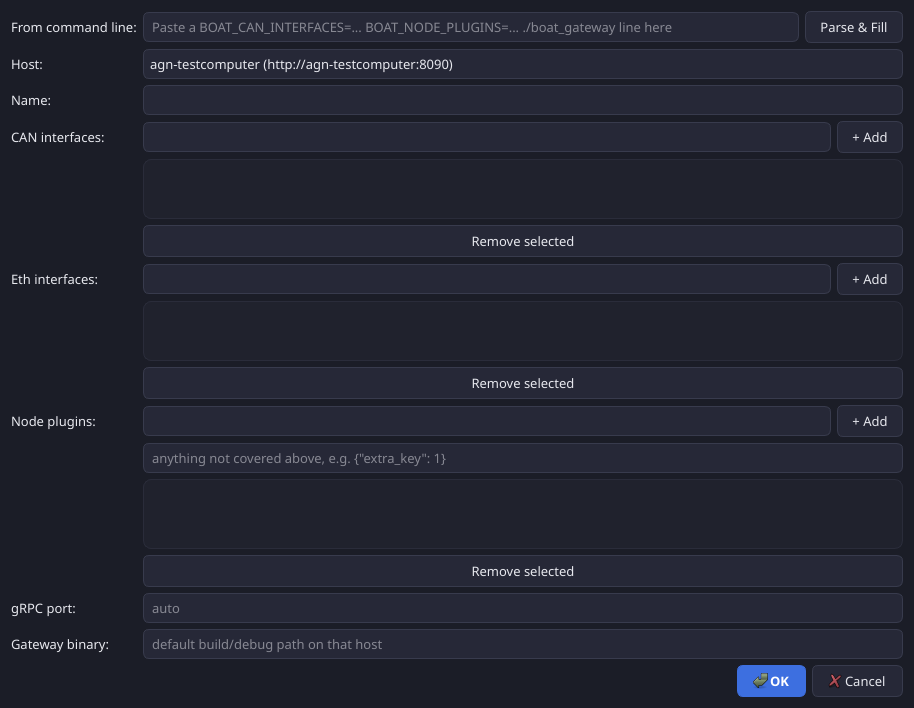
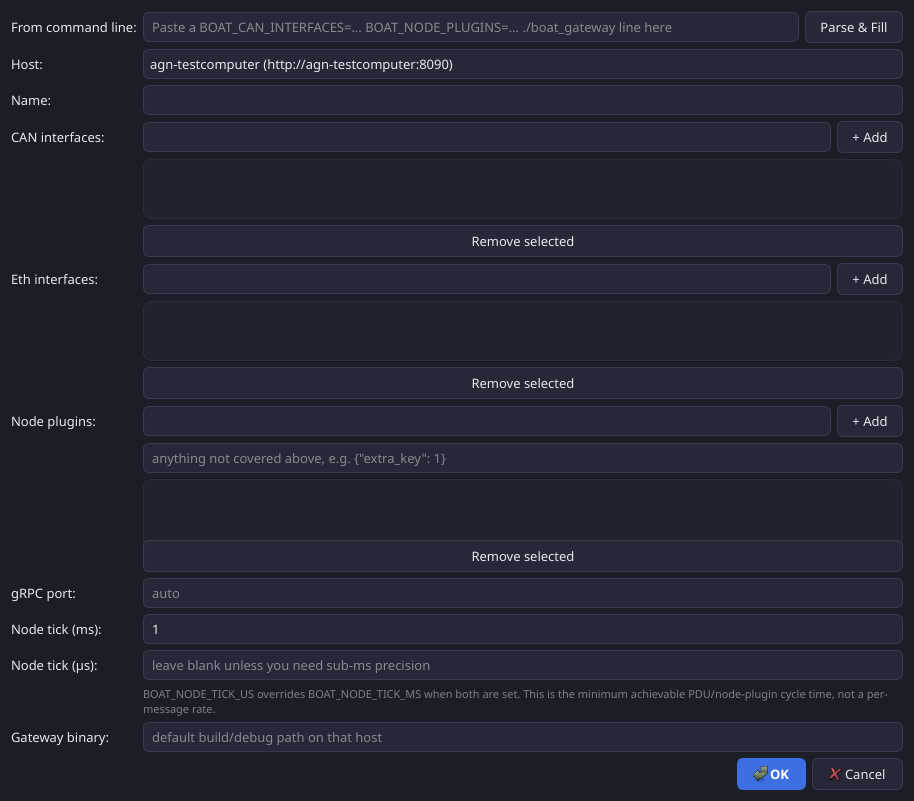
feat: Node tick (ms)/(us) fields in New/Edit Instance dialog
Adds dedicated Node tick (ms) / Node tick (us) fields (BOAT_NODE_TICK_MS/
_US) to NewInstanceDialog, following up on an audit of every env var
boat_gateway actually reads (a source grep of every getenv() call in
main.cpp + replay_engine.cpp -- 9 total: the 4 already known, plus
BOAT_NODE_PLUGINS, plus three undocumented TLS vars the user said aren't
needed for now).

Corrects a naming mix-up in the request: the real variable is
BOAT_NODE_TICK_US (microseconds), not _NS (nanoseconds) -- confirmed
against the actual getenv() call and implemented with the real name,
since a _NS field would silently do nothing.

Node tick (ms) starts pre-filled with "1" (the gateway's own compiled-in
default) as literal text, not a placeholder. Node tick (us) starts blank
with a "leave blank unless you need sub-ms precision" placeholder. A
note under both states BOAT_NODE_TICK_US overrides BOAT_NODE_TICK_MS
when both are set. Edit mode only overrides the "1" default when the
instance has its own explicit tick_ms saved. _parse_and_fill() now also
populates both fields from a pasted command line -- previously a parsed
BOAT_NODE_TICK_MS value was silently dropped, since no field existed to
hold it. create_instance()/update_instance() (agent_client.py) and
_format_command_line()/_parse_command_line() already fully supported
tick_ms/tick_us; the only gap was the dialog itself.

Verified on real hardware (agn-testcomputer), on an isolated test agent
[…]

diff --git a/admin_gui/main.py b/admin_gui/main.py
@@ -1104,6 +1104,22 @@ class NewInstanceDialog(QDialog):
         self.port_edit.setPlaceholderText("auto")
         layout.addRow("gRPC port:", self.port_edit)
 
+        self.tick_ms_edit = QLineEdit("1")
+        layout.addRow("Node tick (ms):", self.tick_ms_edit)
+
+        self.tick_us_edit = QLineEdit()
+        self.tick_us_edit.setPlaceholderText("leave blank unless you need sub-ms precision")
+        layout.addRow("Node tick (µs):", self.tick_us_edit)
+
+        tick_note = QLabel(
+            "BOAT_NODE_TICK_US overrides BOAT_NODE_TICK_MS when both are set. "
+            "This is the minimum achievable PDU/node-plugin cycle time, not a "
+            "per-message rate."
+        )
+        tick_note.setWordWrap(True)
+        tick_note.setStyleSheet("color: gray; font-size: 11px;")
+        layout.addRow("", tick_note)
+
         self.gw_bin_edit = QLineEdit()
         self.gw_bin_edit.setPlaceholderText("default build/debug path on that host")
         layout.addRow("Gateway binary:", self.gw_bin_edit)
@@ -1131,6 +1147,13 @@ class NewInstanceDialog(QDialog):
             # own current port from its collision check.
             if existing.get("grpc_port"):
                 self.port_edit.setText(str(existing["grpc_port"]))
+            # tick_ms_edit already defaults to "1" (the gateway's own
+            # compiled-in default) -- only override it when this instance
+            # has its own explicit value saved.
+            if existing.get("tick_ms"):
+                self.tick_ms_edit.setText(str(existing["tick_ms"]))
+            if existing.get("tick_us"):
+                self.tick_us_edit.setText(str(existing["tick_us"]))
             if existing.get("gateway_bin"):
                 self.gw_bin_edit.setText(existing["gateway_bin"])
 
@@ -1158,6 +1181,8 @@ class NewInstanceDialog(QDialog):
         for p in parsed["node_plugins"]:
             self.plugin_picker.add_value(p["path"], p["config"])
         self.port_edit.setText(str(parsed["grpc_port"]) if parsed["grpc_port"] is not None else "")
+        self.tick_ms_edit.setText(str(parsed["tick_ms"]) if parsed["tick_ms"] is not None else "")
+        self.tick_us_edit.setText(str(parsed["tick_us"]) if parsed["tick_us"] is not None else "")
         self.gw_bin_edit.setText(parsed["gateway_bin"] or "")
         self.paste_edit.clear()
 
@@ -1180,12 +1205,16 @@ class NewInstanceDialog(QDialog):
 
     def result_payload(self) -> dict:
         port_text = self.port_edit.text().strip()
+        tick_ms_text = self.tick_ms_edit.text().strip()
+        tick_us_text = self.tick_us_edit.text().strip()
         return {
             "name": self.name_edit.text().strip(),
             "can_ifaces": self.can_picker.values(),
             "eth_ifaces": self.eth_picker.values(),
             "node_plugins": self.plugin_picker.values(),
             "grpc_port": int(port_text) if port_text else None,
+            "tick_ms": int(tick_ms_text) if tick_ms_text else None,
+            "tick_us": int(tick_us_text) if tick_us_text else None,
             "gateway_bin": self.gw_bin_edit.text().strip() or None,
         }
 

diff --git a/backlog/launcher_agent_backlog.md b/backlog/launcher_agent_backlog.md
@@ -827,6 +827,79 @@ the user's own live processes (two gateways, `launcher_agent`, four
 `ui/*.py` services) confirmed still running under the same PIDs
 afterward.
 
+## Done (2026-08-20, continued) — audited the gateway's full env var surface, added Node tick fields
+
+User: "figure out how many env variables the gateway can use. I know
+there are the can and eth interfaces, the ticktime and the port. have i
+forgott anything?" A full source grep (not a doc reread) of everything
+`boat_gateway` actually calls `getenv()` on -- `main.cpp` +
+`replay_engine.cpp` (same binary; loaded plugins take config only via
+their own `?{json}` query string, confirmed zero `getenv()` calls
+anywhere under `src/plugins/`) -- found 9 total: the 4 the user named
+(`BOAT_CAN_INTERFACES`, `BOAT_ETH_INTERFACES`, `BOAT_GRPC_PORT`,
+`BOAT_NODE_TICK_MS`/`_US`), `BOAT_NODE_PLUGINS`, and three genuinely
+undocumented ones -- `BOAT_TLS_CERT`/`BOAT_TLS_KEY`/`BOAT_TLS_CLIENT_CA`
+(opt-in server-side TLS, confirmed absent from `AGENTS.md`, `README.md`,
+and admin_gui, present only in the source). Also flagged `BOAT_HIL_ENABLED`/
+`BOAT_VCAN_IFACE` as a likely point of confusion -- real `BOAT_*` env
+vars, but read by the ctest HIL test binaries, not by `boat_gateway`
+itself.
+
+User: TLS isn't needed for now (Google-requires-it-for-something-else,
+not for regular connections) -- skip it. Follow-up: "please add a field
+for the BOAT_NODE_TICK_NS and BOAT_NODE_TICK_MS to the New Instance /
+Edit window with default BOAT_NODE_TICK_MS = 1 with a comment that
+BOAT_NODE_TICK_NS will override BOAT_NODE_TICK_MS when both are set."
+Corrected in passing: the real env var is `BOAT_NODE_TICK_US`
+(microseconds), not `_NS` (nanoseconds) -- confirmed against the exact
+`getenv()` call in `main.cpp` found during the audit above; implemented
+using the real name, since a `_NS` field would silently do nothing (the
+gateway never reads it).
+
+Found while implementing: `create_instance()`/`update_instance()`
+(`agent_client.py`) already accepted `tick_ms`/`tick_us`, and
+`_format_command_line()`/`_parse_command_line()` (the Equivalent Command
+Line panel and its own paste-and-fill) already handled both -- the *only*
+gap was `NewInstanceDialog` itself never having input fields for them,
+so `result_payload()` never included them and a pasted
+`BOAT_NODE_TICK_MS=...` line's parsed value was silently dropped instead
+of landing anywhere.
+
+**Fix**: two new fields, **Node tick (ms)** (pre-filled `"1"`, the
+gateway's own compiled-in default -- literal text, not a placeholder, so
+it's visibly what's about to be sent, not just implied) and **Node tick
+(µs)** (blank, placeholder "leave blank unless you need sub-ms
+precision"), plus a small note underneath: "BOAT_NODE_TICK_US overrides
+BOAT_NODE_TICK_MS when both are set. This is the minimum achievable
+PDU/node-plugin cycle time, not a per-message rate." Edit mode overrides
+the `"1"` default only when the instance has its own explicit
+`tick_ms` saved (mirroring the existing gRPC-port pre-fill pattern);
+`_parse_and_fill()` now also populates both fields from a pasted line
+(previously silently ignored parsed tick values); `result_payload()`
+includes both, parsed as `int` when non-blank else `None`.
+
+**Verified on real hardware** (`agn-testcomputer`), on an isolated test
+agent (a fresh port -- the box had `launcher_agent` and four other
+`ui/*.py` services running at the time, confirmed via `ps`/`ss` and left
+untouched, no gateway processes were running so nothing else needed
+avoiding): a throwaway Qt driver script (Xvfb + `xcb`, not committed)
+confirmed a fresh dialog's `tick_ms`/`tick_us` fields read `"1"`/`""`
+and `result_payload()` returned `{"tick_ms": 1, "tick_us": None}`;
+created a real instance through the isolated agent with that payload and
+confirmed the stored instance came back with `tick_ms: 1, tick_us:
+None`; reopened it in Edit mode and confirmed the dialog correctly
+pre-filled `"1"`/`""` from the *saved* instance (not just the
+constructor default); changed `tick_us` to `500` and confirmed the real
+`update_instance()` call persisted `tick_us: 500`; pasted a line
+containing `BOAT_NODE_TICK_MS=5` into a fresh dialog and confirmed
+**Parse && Fill** populated `tick_ms_edit` with `"5"` (previously this
+field didn't exist at all, so this exact input silently did nothing). A
+screenshot confirmed the fields and note render correctly, and was also
+used to regenerate the stale `admin_gui/docs/new_instance_dialog.png`.
+Test instance and all test artifacts cleaned up afterward; every one of
+the user's own live processes confirmed running under the same PIDs
+afterward.
+
 ## Next steps (not started)
 
 - Decide instance persistence approach once the "agent restart loses

diff --git a/test/AdminGui.md b/test/AdminGui.md
@@ -1209,3 +1209,71 @@ correctly across every interface type present. All test artifacts
 cleaned up afterward; every one of the user's own live processes
 confirmed running under the same PIDs afterward. Full account:
 `backlog/launcher_agent_backlog.md`'s "CAN Config column" entry.
+
+---
+
+### TC_AdminGui_023_node_tick_fields
+
+**TestSets:** [AdminGui]
+
+**Preconditions:**
+- A reachable agent
+
+**TestSteps:**
+1. Open **New Instance…**; inspect the Node tick (ms)/(µs) fields and
+   the note beneath them
+2. Fill in a CAN interface and create the instance
+3. **Edit…** the created instance; inspect the tick fields
+4. Change **Node tick (µs)** and save
+5. Paste a command line containing `BOAT_NODE_TICK_MS=<n>` (no `_US`)
+   into **From command line** and click **Parse && Fill**
+
+**Expected:**
+- Step 1: **Node tick (ms)** starts pre-filled with `1`; **Node tick
+  (µs)** is blank with a "leave blank unless you need sub-ms precision"
+  placeholder; the note states `BOAT_NODE_TICK_US` overrides
+  `BOAT_NODE_TICK_MS` when both are set
+- Step 2: the created instance's stored `tick_ms` is `1`, `tick_us` is
+  `None`
+- Step 3: the dialog re-opens with `1`/blank pre-filled from the saved
+  instance
+- Step 4: the update persists the new `tick_us` value
+- Step 5: **Node tick (ms)** updates to the pasted value, **Node tick
+  (µs)** stays blank
+
+**Verdict:** OK
+
+**Result:**
+Followed a request to audit the gateway's full environment-variable
+surface first (a source grep of every `getenv()` call in `main.cpp` +
+`replay_engine.cpp`, confirming 9 total including three genuinely
+undocumented TLS vars the user then said weren't needed for now) --
+this test case covers the follow-up: adding dedicated Node tick fields
+to the New/Edit Instance dialog, previously only reachable via a paste
+that silently dropped the value (no field existed to hold it, and
+`result_payload()` never included it, even though the agent-side
+`create_instance()`/`update_instance()` already accepted it). Also
+corrected a naming mix-up in the request itself: the real variable is
+`BOAT_NODE_TICK_US` (microseconds), not `_NS` (nanoseconds) -- confirmed
+against the actual `getenv()` call, and implemented with the real name.
+
+Verified on real hardware (`agn-testcomputer`), on an isolated test
+agent (the box had `launcher_agent` and four other `ui/*.py` services
+running at the time, confirmed via `ps`/`ss` and left untouched; no
+gateway processes were running, so nothing else needed avoiding): a
+throwaway Qt driver script (Xvfb + `xcb`, not committed) confirmed a
+fresh dialog's fields read `"1"`/`""` and `result_payload()` returned
+`{"tick_ms": 1, "tick_us": None}`; created a real instance through the
+isolated agent and confirmed the stored `tick_ms`/`tick_us` matched;
+reopened it in Edit mode and confirmed `"1"`/`""` pre-filled from the
+*saved* instance, not just the constructor default; changed `tick_us`
+to `500` and confirmed the real update persisted it; pasted a line with
+`BOAT_NODE_TICK_MS=5` and confirmed **Parse && Fill** populated the
+`ms` field with `"5"` (previously silently dropped, since the field
+didn't exist). A screenshot confirmed the fields and note render
+correctly, and was used to regenerate the stale
+`admin_gui/docs/new_instance_dialog.png`. Test instance and all test
+artifacts cleaned up afterward; every one of the user's own live
+processes confirmed running under the same PIDs afterward. Full
+account: `backlog/launcher_agent_backlog.md`'s "audited the gateway's
+full env var surface, added Node tick fields" entry.

diff --git a/AGENTS.md b/AGENTS.md
@@ -359,10 +359,18 @@ the `external:` discovery above), polled every 2s on a background
 `QThread` → create/**edit**/start/stop/delete, plus a log viewer and an
 **equivalent command line** panel (the `BOAT_*=... ./boat_gateway` form
 of whatever instance is selected, with a Copy button -- for pasting into
-a script) for the selected instance.
+a script) for the selected instance. The New/Edit Instance dialog has
+dedicated **Node tick (ms)**/**Node tick (µs)** fields (`BOAT_NODE_TICK_MS`/
+`_US` -- the gateway's own compiled-in default is 1ms, which **Node tick
+(ms)** starts pre-filled with; a note under both fields states `_US`
+overrides `_MS` when both are set, matching `main.cpp`'s own precedence)
+-- previously only reachable via **From command line** paste, with no
+dedicated fields and no round-trip through `result_payload()` at all, so
+a pasted tick value was silently dropped even though the agent-side
+`create_instance`/`update_instance` calls already accepted it.
 The New/Edit Instance dialog also runs the *reverse* direction: paste a
 command line into **From command line** and **Parse && Fill** populates
-every field from it. **Save Session…**/**Load Session…** write/read a
+every field from it (now including these two). **Save Session…**/**Load Session…** write/read a
 docker-compose-style YAML file (`session.py`, using `PyYAML`) capturing
 every host plus its agent-managed instance definitions (never
 `managed: false` rows -- nothing owned to save for those) *and* every

diff --git a/admin_gui/README.md b/admin_gui/README.md
@@ -91,8 +91,12 @@ reference for any future visual changes.
    back to the flat optional JSON config field alongside the path (e.g.
    `{"iface": "vcan0"}`), same as before this existed. **Remove selected**
    drops an already-added entry. Also: an optional explicit gRPC port
-   (blank = auto-allocated by that host's agent), and an optional gateway
-   binary override.
+   (blank = auto-allocated by that host's agent); **Node tick (ms)** /
+   **Node tick (µs)** (`BOAT_NODE_TICK_MS`/`_US` -- the minimum
+   achievable PDU/node-plugin cycle time, not a per-message rate; **Node
+   tick (ms)** starts pre-filled with `1`, the gateway's own compiled-in
+   default, and a note under both fields states `_US` overrides `_MS`
+   when both are set); and an optional gateway binary override.
    At the top, **From command line** takes a pasted
    `BOAT_CAN_INTERFACES=... BOAT_NODE_PLUGINS=... ./boat_gateway` line
    (exactly what the "Equivalent command line" panel below produces) and
